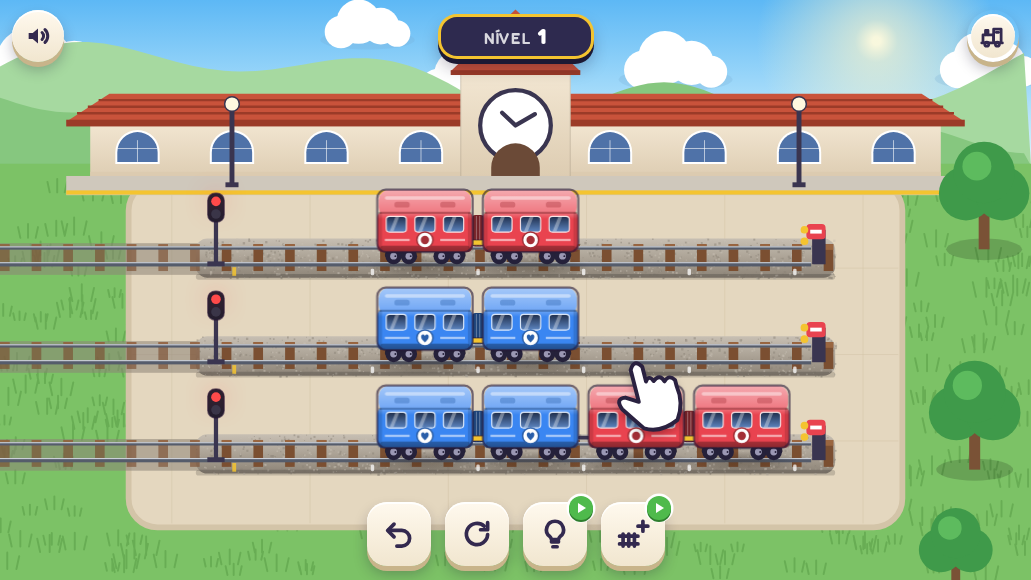
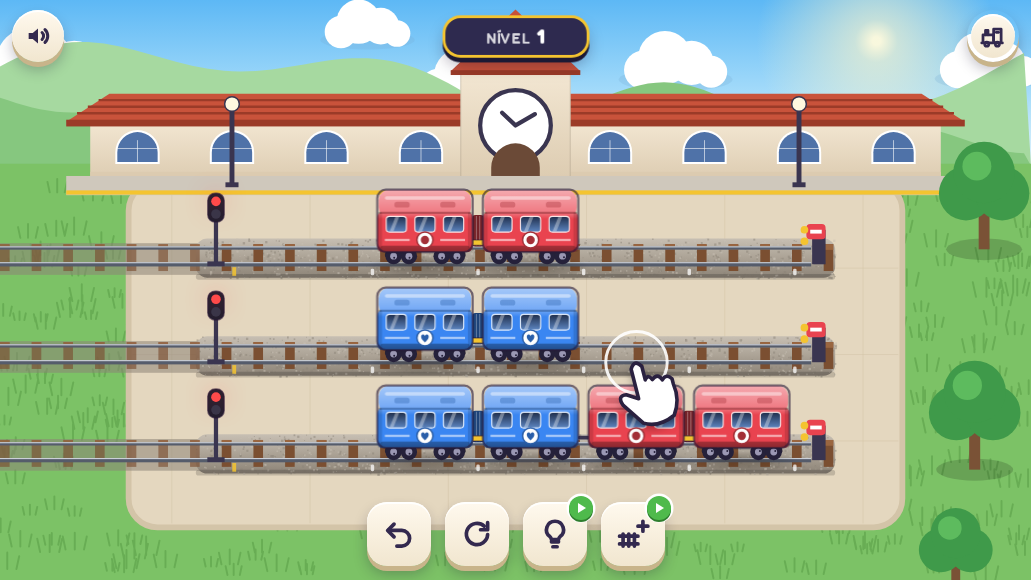
Fase 3: thumb da Poki e build 1.0.0; polimento final
- tools/thumb.html desenha a thumb com as pecas do jogo (1:1, sangrada,
  sem texto, locomotiva classica puxando pares engatados, fumaca e
  linhas de velocidade); 3 opcoes em marketing/thumb/opcoes, escolhida a
  do por do sol (contraste com o menta #83FFE7 da Poki); 1256 e 628 em
  PNG e JPG
- npm run poki: testes, dist/ verificada, zip de 90 KB, sdkcheck sobre a
  build e prints nos tamanhos de iframe da Poki
- mao do tutorial volta nos niveis 1-2 se o jogador parar; vibracao no
  engate e no trem pronto; sombra dos vagoes em sprite

Claude-Session: https://claude.ai/code/session_01GkTpuWVxco6N8c1GiHoWsb

Changed region(s): [[0.4345, 0.0, 0.5897, 0.1241], [0.5897, 0.5586, 0.6828, 0.7448], [0.4035, 0.031, 0.4345, 0.0931]]

diff --git a/tools/thumb.html b/tools/thumb.html
@@ -1,0 +1,138 @@
+<!doctype html>
+<html lang="pt-BR"><head><meta charset="utf-8"><title>thumb</title>
+<style>html,body{margin:0;overflow:hidden;background:#000}canvas{display:block;width:100vw;height:100vh}</style></head>
+<body><canvas id="c"></canvas>
+<script type="module">
+// Thumb da Poki desenhada com as pecas do proprio jogo.
+// Regras (developers.poki.com/guide/game-thumbnail, anotadas no planet.io):
+// 1:1, sangrada, sem texto, um objeto principal, sugerir movimento,
+// contraste com o fundo #83FFE7 do site. ?opcao=a|b|c  (tamanho = janela)
+import { desenharVagao, desenharLoco, desenharSanfona, desenharSombra, pontaChamine, PINTURAS, caminhoRet } from '../src/render/pecas.js';
+import { TEMAS, misturar } from '../src/render/tema.js';
+import { criarRng } from '../src/core/rng.js';
+
+const q = new URLSearchParams(location.search);
+const opcao = q.get('opcao') || 'b';
+const S = Math.max(64, parseInt(q.get('s') || '1256', 10));
+const cv = document.getElementById('c');
+cv.width = S; cv.height = S;
+const ctx = cv.getContext('2d');
+const r = criarRng(42);
+const CEUS = {
+  a: { ceu: ['#4FA9EE', '#9AD6FA', '#DDF2FB'], morro: ['#9ED39A', '#74BE6C'], chao: '#6FB85B', tema: TEMAS.dia, sol: 'rgba(255,250,215,0.95)', predio: '#F3E7D3', telhado: '#C9533B', janela: '#4F72A8' },
+  b: { ceu: ['#3B1E6E', '#C2457A', '#FF9E5E'], morro: ['#7A3D78', '#5B2C66'], chao: '#3E2A5C', tema: TEMAS.dia, sol: 'rgba(255,214,120,0.95)', predio: '#5A3474', telhado: '#2C1745', janela: '#FFD36B' },
+  c: { ceu: ['#090B2A', '#22195A', '#4A2C7A'], morro: ['#261F55', '#1A163F'], chao: '#161D3A', tema: TEMAS.noite, sol: 'rgba(255,244,214,0.95)', predio: '#3E3870', telhado: '#5A2471', janela: '#FFD36B' },
+};
+const K = CEUS[opcao];
+
+// ---- fundo (desfocado: sensacao de velocidade)
+const fundo = document.createElement('canvas');
+fundo.width = S; fundo.height = S;
+const g = fundo.getContext('2d');
+let gr = g.createLinearGradient(0, 0, 0, S * 0.62);
+gr.addColorStop(0, K.ceu[0]); gr.addColorStop(0.55, K.ceu[1]); gr.addColorStop(1, K.ceu[2]);
+g.fillStyle = gr; g.fillRect(0, 0, S, S);
+// sol ou lua
+const sx = S * 0.78, sy = S * 0.3, sr = S * 0.11;
+const halo = g.createRadialGradient(sx, sy, sr * 0.5, sx, sy, sr * 3.4);
+halo.addColorStop(0, K.sol.replace('0.95', '0.55')); halo.addColorStop(1, 'rgba(255,240,200,0)');
+g.fillStyle = halo; g.fillRect(0, 0, S, S);
+g.fillStyle = K.sol; g.beginPath(); g.arc(sx, sy, sr, 0, Math.PI * 2); g.fill();
+if (opcao === 'c') {
+  for (let i = 0; i < 160; i++) { g.globalAlpha = 0.3 + r() * 0.7; g.fillStyle = '#fff'; const s = r() < 0.1 ? 3 : 1.6; g.fillRect(r() * S, r() * S * 0.55, s, s); }
+  g.globalAlpha = 1;
+}
+if (opcao === 'a') {
+  g.fillStyle = '#fff';
+  for (const [x, y, s] of [[0.18, 0.16, 0.07], [0.5, 0.1, 0.05], [0.9, 0.5, 0.06]]) {
+    for (const [dx, dy, rr] of [[-0.9, 0.1, 0.55], [-0.3, -0.25, 0.75], [0.45, -0.05, 0.62], [1, 0.2, 0.45]]) { g.beginPath(); g.arc((x + dx * s) * S, (y + dy * s) * S, rr * s * S, 0, Math.PI * 2); g.fill(); }
+  }
+}
+// estacao ao fundo (silhueta com relogio)
+const by = S * 0.56;
+g.fillStyle = K.morro[0];
+g.beginPath(); g.moveTo(0, by);
+for (let x = 0; x <= S; x += 8) g.lineTo(x, by - S * (0.1 + 0.05 * Math.sin(x / S * 7 + 1)));
+g.lineTo(S, by); g.closePath(); g.fill();
+const ex0 = S * 0.42, ex1 = S * 1.05, ey = by + S * 0.02, eh = S * 0.13;
+g.fillStyle = K.predio; g.fillRect(ex0, ey - eh, ex1 - ex0, eh);
+g.fillStyle = K.telhado;
+g.beginPath(); g.moveTo(ex0 - S * 0.02, ey - eh); g.lineTo(ex0 + S * 0.03, ey - eh - S * 0.05); g.lineTo(ex1, ey - eh - S * 0.05); g.lineTo(ex1, ey - eh); g.closePath(); g.fill();
+const tx = S * 0.66, tw = S * 0.08;
+g.fillStyle = K.predio; g.fillRect(tx - tw / 2, ey - eh - S * 0.13, tw, S * 0.13);
+g.fillStyle = K.telhado;
+g.beginPath(); g.moveTo(tx - tw * 0.65, ey - eh - S * 0.13); g.lineTo(tx, ey - eh - S * 0.19); g.lineTo(tx + tw * 0.65, ey - eh - S * 0.13); g.closePath(); g.fill();
+g.fillStyle = '#FFF6E0'; g.beginPath(); g.arc(tx, ey - eh - S * 0.085, tw * 0.3, 0, Math.PI * 2); g.fill();
+g.fillStyle = K.janela;
+for (let i = 0; i < 6; i++) { const jx = ex0 + S * 0.04 + i * S * 0.1; if (Math.abs(jx - tx) < tw) continue; g.fillRect(jx, ey - eh * 0.75, S * 0.035, eh * 0.45); }
+g.fillStyle = K.morro[1];
+g.beginPath(); g.moveTo(0, S); g.lineTo(0, by + S * 0.02);
+for (let x = 0; x <= S; x += 8) g.lineTo(x, by + S * 0.02 - S * 0.03 * Math.sin(x / S * 4 + 2));
+g.lineTo(S, S); g.closePath(); g.fill();
+g.fillStyle = K.chao; g.fillRect(0, S * 0.62, S, S);
+ctx.filter = 'blur(' + Math.round(S * 0.004) + 'px)';
+ctx.drawImage(fundo, 0, 0);
+ctx.filter = 'none';
+
+// ---- linhas de velocidade
+ctx.strokeStyle = opcao === 'a' ? 'rgba(255,255,255,0.55)' : 'rgba(255,230,200,0.35)';
+ctx.lineCap = 'round';
+for (let i = 0; i < 16; i++) {
+  const y = S * (0.2 + r() * 0.6), x = S * (0.35 + r() * 0.7), w = S * (0.08 + r() * 0.2);
+  ctx.lineWidth = S * (0.003 + r() * 0.004);
+  ctx.beginPath(); ctx.moveTo(x, y); ctx.lineTo(x + w, y - w * 0.21); ctx.stroke();
+}
+
+// ---- o trem, em diagonal, saindo da tela pela direita
+const ang = -0.33;
+const L = S * 0.225;
+const P = L * 1.1;
+const x0 = S * 0.21, y0 = S * 0.83;
+const tema = K.tema;
+const cores = [0, 0, 5, 5, 2, 2, 3];
+ctx.save();
+ctx.translate(x0, y0);
+ctx.rotate(ang);
+// trilhos e dormentes
+ctx.fillStyle = 'rgba(0,0,0,0.22)';
+ctx.fillRect(-S, -L * 0.06, S * 3, L * 0.32);
+for (let x = -S; x < S * 2; x += L * 0.34) { ctx.fillStyle = '#6B4529'; ctx.fillRect(x, -L * 0.2, L * 0.11, L * 0.3); ctx.fillStyle = '#87593A'; ctx.fillRect(x, -L * 0.2, L * 0.11, L * 0.06); }
+for (const [yy, lw] of [[-L * 0.16, 0.035], [0, 0.05]]) { ctx.fillStyle = '#4E5563'; ctx.fillRect(-S, yy - L * lw / 2, S * 3, L * lw); ctx.fillStyle = '#E8ECF2'; ctx.fillRect(-S, yy - L * lw / 2, S * 3, L * 0.013); }
+const xs = [];
+let x = 1.32 * L / 2 + L * 0.1 + P / 2;
+for (let i = 0; i < cores.length; i++) { xs.push(x); x += P; }
+desenharSombra(ctx, 0, 0, L * 1.3, 1, tema);
+xs.forEach((xx) => desenharSombra(ctx, xx, 0, L, 1, tema));
+for (let i = 0; i + 1 < cores.length; i++) if (cores[i] === cores[i + 1]) desenharSanfona(ctx, xs[i] + L / 2, xs[i + 1] - L / 2, 0, L, cores[i], tema);
+xs.forEach((xx, i) => desenharVagao(ctx, xx, 0, cores[i], L, tema, 1, { roda: 0.4 + i }));
+desenharLoco(ctx, 0, 0, L, tema, 1, { aceso: true, roda: 0.9, pintura: PINTURAS[0] });
+const pc = pontaChamine(0, 0, L);
+ctx.restore();
+
+// ---- fumaca: rastro grosso subindo para tras
+const cx = x0 + Math.cos(ang) * pc.x - Math.sin(ang) * pc.y;
+const cy = y0 + Math.sin(ang) * pc.x + Math.cos(ang) * pc.y;
+for (let i = 9; i >= 0; i--) {
+  const t = i / 9;
+  const px = cx + t * S * 0.5, py = cy - t * S * 0.3 - Math.sin(t * 5) * S * 0.02;
+  const rr = S * (0.03 + t * 0.06);
+  const gg = ctx.createRadialGradient(px - rr * 0.3, py - rr * 0.3, rr * 0.1, px, py, rr);
+  const a = 0.9 - t * 0.55;
+  gg.addColorStop(0, `rgba(255,255,255,${a})`); gg.addColorStop(0.7, `rgba(255,255,255,${a * 0.6})`); gg.addColorStop(1, 'rgba(255,255,255,0)');
+  ctx.fillStyle = gg; ctx.beginPath(); ctx.arc(px, py, rr, 0, Math.PI * 2); ctx.fill();
+}
+// faiscas/estrelas de festa
+const corEst = ['#F5C933', '#EF58AF', '#3A86F2', '#4FBA4C', '#E9434F'];
+for (let i = 0; i < 14; i++) {
+  const px = S * (0.05 + r() * 0.9), py = S * (0.05 + r() * 0.4), rr = S * (0.008 + r() * 0.012);
+  ctx.save(); ctx.translate(px, py); ctx.rotate(r() * 6); ctx.fillStyle = corEst[i % corEst.length];
+  ctx.beginPath(); for (let k = 0; k < 10; k++) { const a2 = -Math.PI / 2 + k * Math.PI / 5; const q = k % 2 ? rr * 0.5 : rr * 1.2; ctx.lineTo(Math.cos(a2) * q, Math.sin(a2) * q); } ctx.closePath(); ctx.fill();
+  ctx.restore();
+}
+// vinheta suave para segurar o olhar no trem
+const vg = ctx.createRadialGradient(S * 0.45, S * 0.6, S * 0.3, S * 0.5, S * 0.55, S * 0.85);
+vg.addColorStop(0, 'rgba(0,0,0,0)'); vg.addColorStop(1, 'rgba(0,0,0,0.28)');
+ctx.fillStyle = vg; ctx.fillRect(0, 0, S, S);
+document.title = 'pronto';
+void caminhoRet; void misturar;
+</script></body></html>

diff --git a/src/render/pecas.js b/src/render/pecas.js
@@ -254,20 +254,26 @@ function rodas(ctx, x, y, L, xs, r, ang, tema) {
   }
 }
 
-/** Sombra macia no chao. */
+/** Sombra macia no chao (sprite em cache por largura e tema). */
 export function desenharSombra(ctx, x, y, w, alfa, tema) {
-  ctx.save();
-  ctx.translate(x, y + w * 0.02);
-  ctx.scale(1, 0.18);
   const r = w * 0.62;
-  const gr = ctx.createRadialGradient(0, 0, r * 0.2, 0, 0, r);
-  gr.addColorStop(0, tema.sombra);
-  gr.addColorStop(1, 'rgba(0,0,0,0)');
+  const chave = `s|${Math.round(r)}|${tema.nome}`;
+  let spr = cache.get(chave);
+  if (!spr) {
+    spr = document.createElement('canvas');
+    spr.width = Math.ceil(r * 2);
+    spr.height = Math.ceil(r * 2);
+    const g = /** @type {CanvasRenderingContext2D} */ (spr.getContext('2d'));
+    const gr = g.createRadialGradient(r, r, r * 0.2, r, r, r);
+    gr.addColorStop(0, tema.sombra);
+    gr.addColorStop(1, 'rgba(0,0,0,0)');
+    g.fillStyle = gr;
+    g.fillRect(0, 0, r * 2, r * 2);
+    cache.set(chave, spr);
+  }
+  ctx.save();
   ctx.globalAlpha = alfa;
-  ctx.fillStyle = gr;
-  ctx.beginPath();
-  ctx.arc(0, 0, r, 0, Math.PI * 2);
-  ctx.fill();
+  ctx.drawImage(spr, x - r, y + w * 0.02 - r * 0.18, r * 2, r * 0.36);
   ctx.restore();
 }
 

diff --git a/src/main.js b/src/main.js
@@ -143,6 +143,13 @@ function atualizarHud(pop = false) {
   $('bGaragem').classList.toggle('novidade', n > J.vista);
 }
 
+/** Vibracao curta (celulares que suportam). @param {number|number[]} ms */
+function vibrar(ms) {
+  try {
+    if (navigator.vibrate) navigator.vibrate(ms);
+  } catch { /* ignora */ }
+}
+
 /** @param {boolean} sim */
 function pulsarAjuda(sim) {
   for (const id of ['bDesfazer', 'bRecomecar', 'bExtra']) $(id).classList.toggle('pulsar', sim && !(id === 'bExtra' && J.extraUsado));
@@ -209,9 +216,17 @@ function executar(a, b) {
   audio.voar();
   depois(ms, () => {
     audio.engate();
+    vibrar(12);
     cena.engatou(b);
     if (ev.completou) completar(b);
     else checarFim();
+    // nos niveis de ensino, a mao volta se o jogador ficar parado
+    if (J.nivel <= 2) {
+      const n = J.hist.length;
+      depois(2500, () => {
+        if (J.fase === 'jogando' && !J.mao && J.hist.length === n && !J.toque && J.sel === null) mostrarMao();
+      });
+    }
   });
 }
 
@@ -223,6 +238,7 @@ function completar(tr) {
     J.pendentes--;
     audio.engate();
     audio.apito();
+    vibrar([18, 60, 28]);
     cena.comemorar(tr);
     checarFim();
   });
